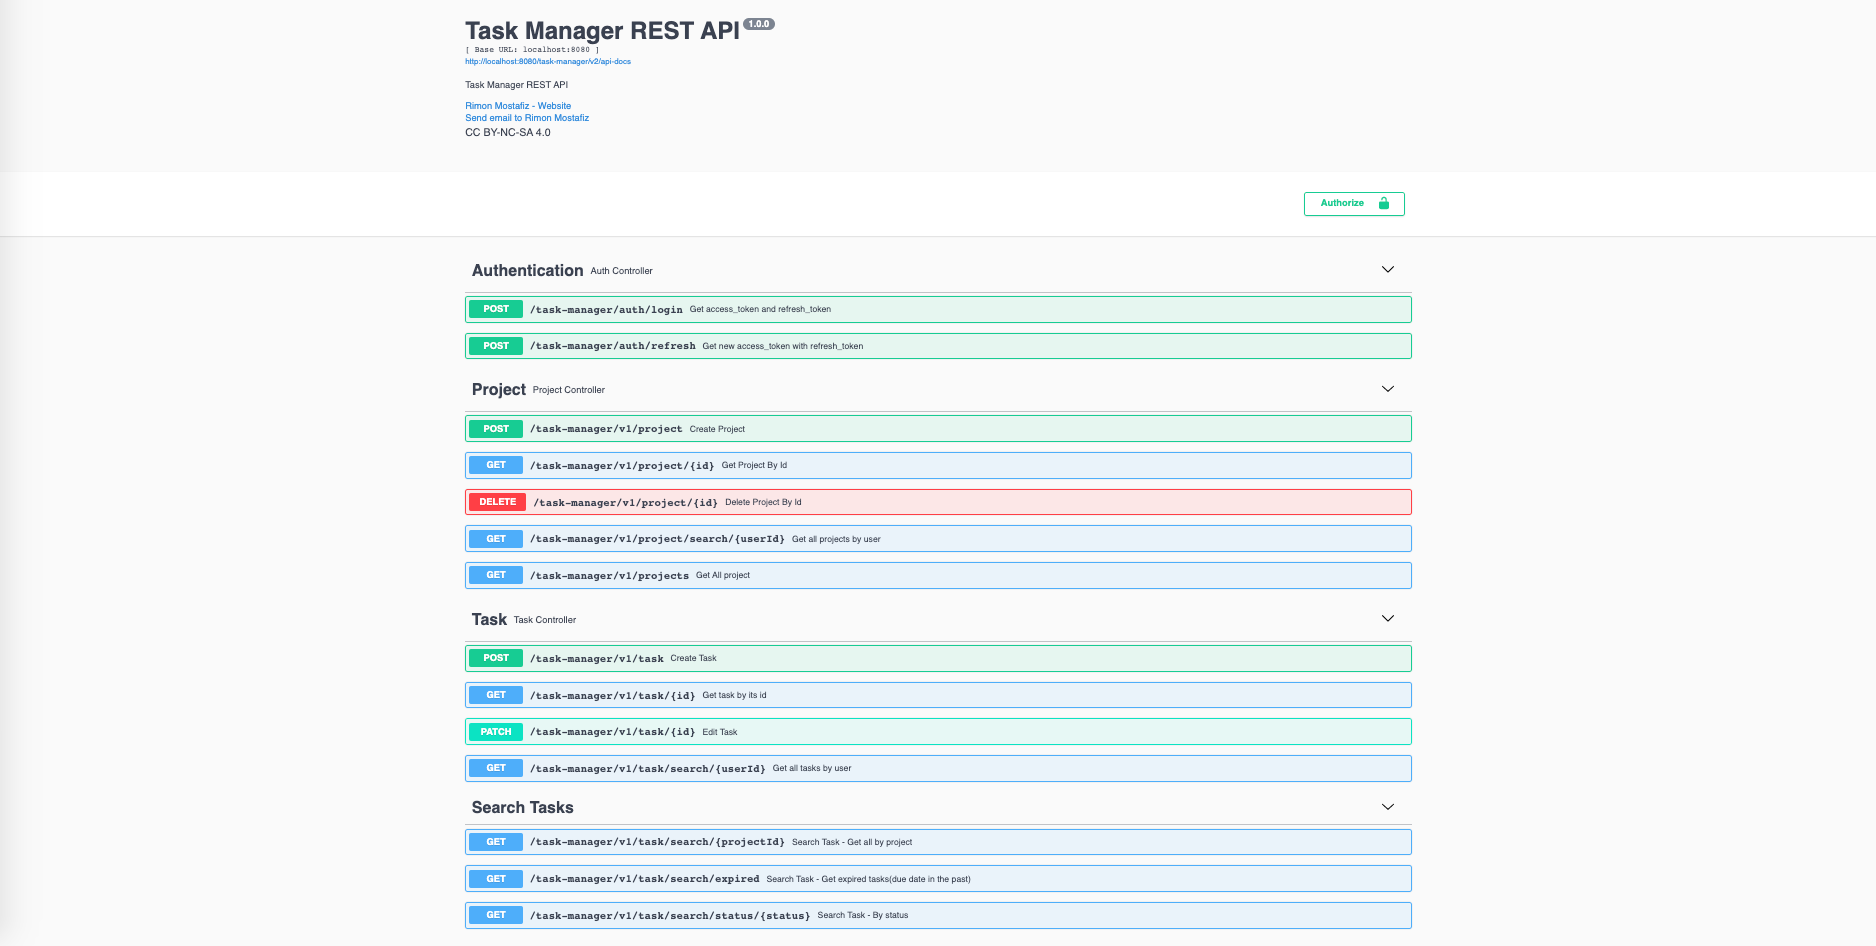
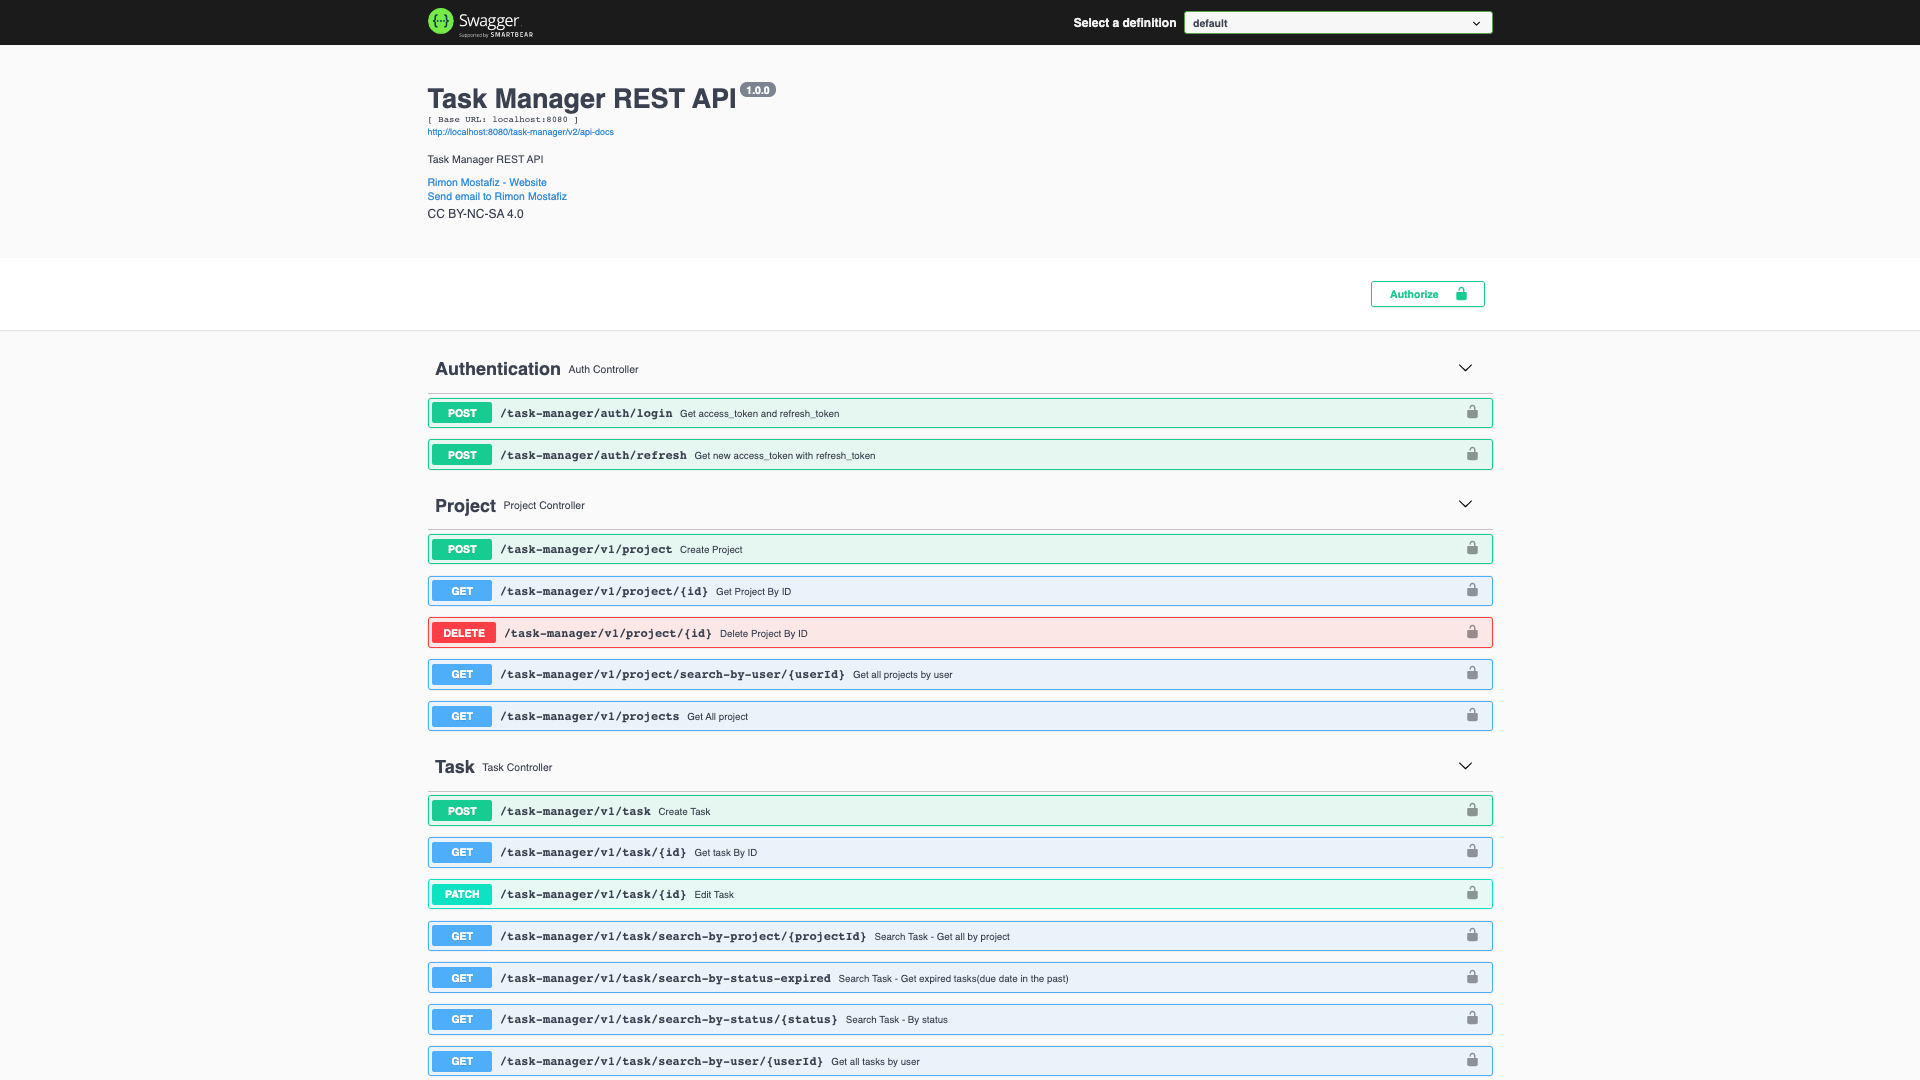
Update Swagger configuration and README.md with API endpoints

Changed region(s): [[0.2164, 0.2759, 0.7729, 1.0], [0.0, 0.0, 1.0, 0.2146], [0.7111, 0.1839, 0.7729, 0.2759]]

diff --git a/src/main/java/io/github/rimonmostafiz/api/TaskController.java b/src/main/java/io/github/rimonmostafiz/api/TaskController.java
@@ -12,7 +12,6 @@ import io.github.rimonmostafiz.utils.RoleUtils;
 import io.github.rimonmostafiz.utils.Utils;
 import io.swagger.annotations.Api;
 import io.swagger.annotations.ApiOperation;
-import io.swagger.v3.oas.annotations.tags.Tag;
 import lombok.RequiredArgsConstructor;
 import lombok.extern.slf4j.Slf4j;
 import org.springframework.http.HttpStatus;
@@ -58,7 +57,7 @@ public class TaskController {
     }
 
     @GetMapping("/task/{id}")
-    @ApiOperation(value = "Get task by its id", notes = "Need to pass valid task id to get details of the task")
+    @ApiOperation(value = "Get task By ID", notes = "Need to pass valid task id to get details of the task")
     public ResponseEntity<RestResponse<TaskResponse>> getTask(HttpServletRequest request, @PathVariable Long id) {
         TaskModel task;
         final String username = Utils.getUserNameFromRequest(request);
@@ -68,17 +67,15 @@ public class TaskController {
         return ResponseUtils.buildSuccessResponse(HttpStatus.OK, taskResponse);
     }
 
-    @GetMapping("/task/search/{projectId}")
-    @Tag(name = "Search Tasks")
-    @ApiOperation(value = "Search Task - Get all by project", notes = "Need to pass a valid project id")
+    @GetMapping("/task/search-by-project/{projectId}")
+    @ApiOperation(value = "Search Task - Get all by project", notes = "Need to pass a valid project ID")
     public ResponseEntity<RestResponse<TaskResponse>> getAllByProject(@PathVariable Long projectId) {
         List<TaskModel> tasks = taskService.getAllTaskByProject(projectId);
         TaskResponse taskResponse = TaskResponse.of(tasks);
         return ResponseUtils.buildSuccessResponse(HttpStatus.OK, taskResponse);
     }
 
-    @GetMapping("/task/search/expired")
-    @Tag(name = "Search Tasks")
+    @GetMapping("/task/search-by-status-expired")
     @ApiOperation(value = "Search Task - Get expired tasks(due date in the past)")
     public ResponseEntity<RestResponse<TaskResponse>> getExpiredTasks() {
         List<TaskModel> expiredTasks = taskService.getAllExpiredTask();
@@ -86,8 +83,7 @@ public class TaskController {
         return ResponseUtils.buildSuccessResponse(HttpStatus.OK, taskResponse);
     }
 
-    @GetMapping("/task/search/status/{status}")
-    @Tag(name = "Search Tasks")
+    @GetMapping("/task/search-by-status/{status}")
     @ApiOperation(value = "Search Task - By status", notes = "Status should be open/in progress/closed")
     public ResponseEntity<RestResponse<TaskResponse>> searchByStatus(@PathVariable String status) {
         var taskStatus = TaskStatus.getStatus(status);
@@ -96,7 +92,7 @@ public class TaskController {
         return ResponseUtils.buildSuccessResponse(HttpStatus.OK, taskResponse);
     }
 
-    @GetMapping("/task/search/{userId}")
+    @GetMapping("/task/search-by-user/{userId}")
     @PreAuthorize("hasAnyAuthority('ADMIN')")
     @ApiOperation(
             value = "Get all tasks by user",

diff --git a/src/main/java/io/github/rimonmostafiz/config/SwaggerConfig.java b/src/main/java/io/github/rimonmostafiz/config/SwaggerConfig.java
@@ -7,11 +7,9 @@ import springfox.documentation.builders.ApiInfoBuilder;
 import springfox.documentation.builders.PathSelectors;
 import springfox.documentation.builders.RequestHandlerSelectors;
 import springfox.documentation.builders.ResponseBuilder;
-import springfox.documentation.service.ApiInfo;
-import springfox.documentation.service.ApiKey;
-import springfox.documentation.service.Contact;
-import springfox.documentation.service.Response;
+import springfox.documentation.service.*;
 import springfox.documentation.spi.DocumentationType;
+import springfox.documentation.spi.service.contexts.SecurityContext;
 import springfox.documentation.spring.web.plugins.Docket;
 import springfox.documentation.swagger2.annotations.EnableSwagger2;
 
@@ -35,24 +33,37 @@ public class SwaggerConfig {
     @Bean
     public Docket docket() {
         return new Docket(DocumentationType.SWAGGER_2)
+                .apiInfo(apiInfo())
+                .securityContexts(Collections.singletonList(securityContext()))
+                .securitySchemes(Collections.singletonList(apiKey()))
                 .globalResponses(HttpMethod.GET, getGlobalResponse())
                 .globalResponses(HttpMethod.POST, getGlobalResponse())
                 .globalResponses(HttpMethod.PUT, getGlobalResponse())
                 .globalResponses(HttpMethod.PATCH, getGlobalResponse())
                 .globalResponses(HttpMethod.DELETE, getGlobalResponse())
-                .securitySchemes(Collections.singletonList(apiKey()))
-                .apiInfo(apiInfo())
                 .select()
                 .apis(RequestHandlerSelectors.basePackage("io.github.rimonmostafiz.api"))
                 .paths(PathSelectors.any())
                 .build();
     }
 
-    public ApiKey apiKey() {
-        return new ApiKey("JWT Token Based Auth", AUTHORIZATION_HEADER, "header");
+
+
+    private ApiKey apiKey() {
+        return new ApiKey("JWT", AUTHORIZATION_HEADER, "header");
     }
 
-    public ApiInfo apiInfo() {
+    private SecurityContext securityContext() {
+        return SecurityContext.builder().securityReferences(defaultAuth()).build();
+    }
+
+    private List<SecurityReference> defaultAuth() {
+        var authScope = new AuthorizationScope("global", "accessEverything");
+        var authorizationScopes = new AuthorizationScope[]{authScope};
+        return Collections.singletonList(new SecurityReference("JWT", authorizationScopes));
+    }
+
+    private ApiInfo apiInfo() {
         return new ApiInfoBuilder()
                 .title("Task Manager REST API")
                 .version("1.0.0")
@@ -62,7 +73,7 @@ public class SwaggerConfig {
                 .build();
     }
 
-    public Contact developerContact() {
+    private Contact developerContact() {
         return new Contact(DEVELOPER, DEVELOPER_WEBSITE, DEVELOPER_EMAIL);
     }
 

diff --git a/src/main/java/io/github/rimonmostafiz/api/ProjectController.java b/src/main/java/io/github/rimonmostafiz/api/ProjectController.java
@@ -57,7 +57,7 @@ public class ProjectController {
     }
 
     @DeleteMapping("/project/{id}")
-    @ApiOperation(value = "Delete Project By Id")
+    @ApiOperation(value = "Delete Project By ID")
     public ResponseEntity<RestResponse<ProjectDeleteResponse>> deleteProject(HttpServletRequest request,
                                                                              @PathVariable Long id) {
         String requestUser = Utils.getUserNameFromRequest(request);
@@ -66,7 +66,7 @@ public class ProjectController {
     }
 
     @GetMapping("/project/{id}")
-    @ApiOperation(value = "Get Project By Id")
+    @ApiOperation(value = "Get Project By ID")
     public ResponseEntity<RestResponse<ProjectResponse>> getProject(HttpServletRequest request, @PathVariable Long id) {
         ProjectModel project;
         final String username = Utils.getUserNameFromRequest(request);
@@ -76,13 +76,13 @@ public class ProjectController {
         return ResponseUtils.buildSuccessResponse(HttpStatus.OK, projectResponse);
     }
 
-    @GetMapping("/project/search/{userId}")
+    @GetMapping("/project/search-by-user/{userId}")
     @PreAuthorize("hasAnyAuthority('ADMIN')")
     @ApiOperation(
             value = "Get all projects by user",
             notes = "An ADMIN User has the privilege to call this API"
     )
-    public ResponseEntity<RestResponse<ProjectResponse>> getProjectByUserId(@PathVariable Long userId) {
+    public ResponseEntity<RestResponse<ProjectResponse>> searchProjectByUserId(@PathVariable Long userId) {
         List<ProjectModel> projects = projectService.getAllProjectsByUser(userId);
         ProjectResponse projectResponse = ProjectResponse.of(projects);
         return ResponseUtils.buildSuccessResponse(HttpStatus.OK, projectResponse);

diff --git a/src/main/java/io/github/rimonmostafiz/service/RedisTokenService.java b/src/main/java/io/github/rimonmostafiz/service/RedisTokenService.java
@@ -5,8 +5,6 @@ import lombok.RequiredArgsConstructor;
 import lombok.extern.slf4j.Slf4j;
 import org.springframework.stereotype.Component;
 
-import static io.github.rimonmostafiz.service.auth.SecurityConstants.WHITE_LIST_ACCESS_TOKEN_PREFIX;
-
 /**
  * @author Rimon Mostafiz
  */
@@ -32,7 +30,7 @@ public class RedisTokenService {
     }
 
     public void addTokenToWhiteList(String accessToken) {
-        String wlAccessTokenKey = WHITE_LIST_ACCESS_TOKEN_PREFIX + accessToken;
+//        String wlAccessTokenKey = WHITE_LIST_ACCESS_TOKEN_PREFIX + accessToken;
 //        long accTokValInMilli = TimeUnit.MILLISECONDS.toMillis(accessTokenValidity);
 //        redisTemplate.opsForValue().set(wlAccessTokenKey, accessToken, accTokValInMilli, TimeUnit.MILLISECONDS);
     }

diff --git a/README.md b/README.md
@@ -12,11 +12,10 @@
 - [Flyway](https://flywaydb.org/) (Database Migration)
 - [Swagger](https://swagger.io/) (API Documentation and API Client)
 
-### Optional Tools
-- [cURL](https://curl.se/) (command line tool and library
-for transferring data with URLs)
-- [Postman](https://www.postman.com/) (API Client)
-
+### API Testing Tools
+- [Swagger](https://swagger.io/)
+- [cURL](https://curl.se/)
+- [Postman](https://www.postman.com/)
 ## Build
 **Build Profile - dev**
 ```
@@ -50,7 +49,7 @@ mvn clean spring-boot:run -P prod -DskipTest
     | user          | password    | USER        |             |
 
 # API Description
-Root URL of the project is `/task-manager`
+Base URL of the project is `/task-manager`
 
 ## Swagger URL
 Click swagger link below to see all the API endpoints after running the project successfully
@@ -58,7 +57,7 @@ http://localhost:8080/task-manager/swagger-ui/#/
 
 ![swagger](swagger.jpg)
 
-## Authencation
+## Authentication
 There are two endpoint for authentication purpose
 
 **POST /auth/login** - Request with Username and Password, If authentication is successful then in response it will send jwt `access_token`, `refresh_token`. For every other subsequent request a valid jwt `access_token` is expected in `Autherization` header.  
@@ -107,3 +106,19 @@ curl -X POST 'http://localhost:8080/task-manager/auth/refresh' -H 'Authorization
    }
 }
 ```
+
+## Project
+- `POST /v1/project` - Create Project
+- `GET /v1/project/{id}` - Get Project By ID
+- `DELETE /v1/project/{id}` - Delete Project By ID
+- `GET /v1/projects/search-by-user/{userId}` - Get All project
+- `GET /v1/projects`
+
+## Task
+- `POST /v1/task` - Create Task
+- `GET /v1/task/{id}` - Get task By ID
+- `PATCH /v1/task/{id}` - Edit Task
+- `GET /v1/task/search-by-project/{projectId}` - Search Task - Get all project
+- `GET /v1/task/search-by-status-expired` - Search Task - Get expired Tasks (due date in the past)
+- `GET /v1/task/search-by-status/{status}` - Search Task - By Status
+- `GET /v1/task/search-by-user/{userId}` - Get all tasks by user
